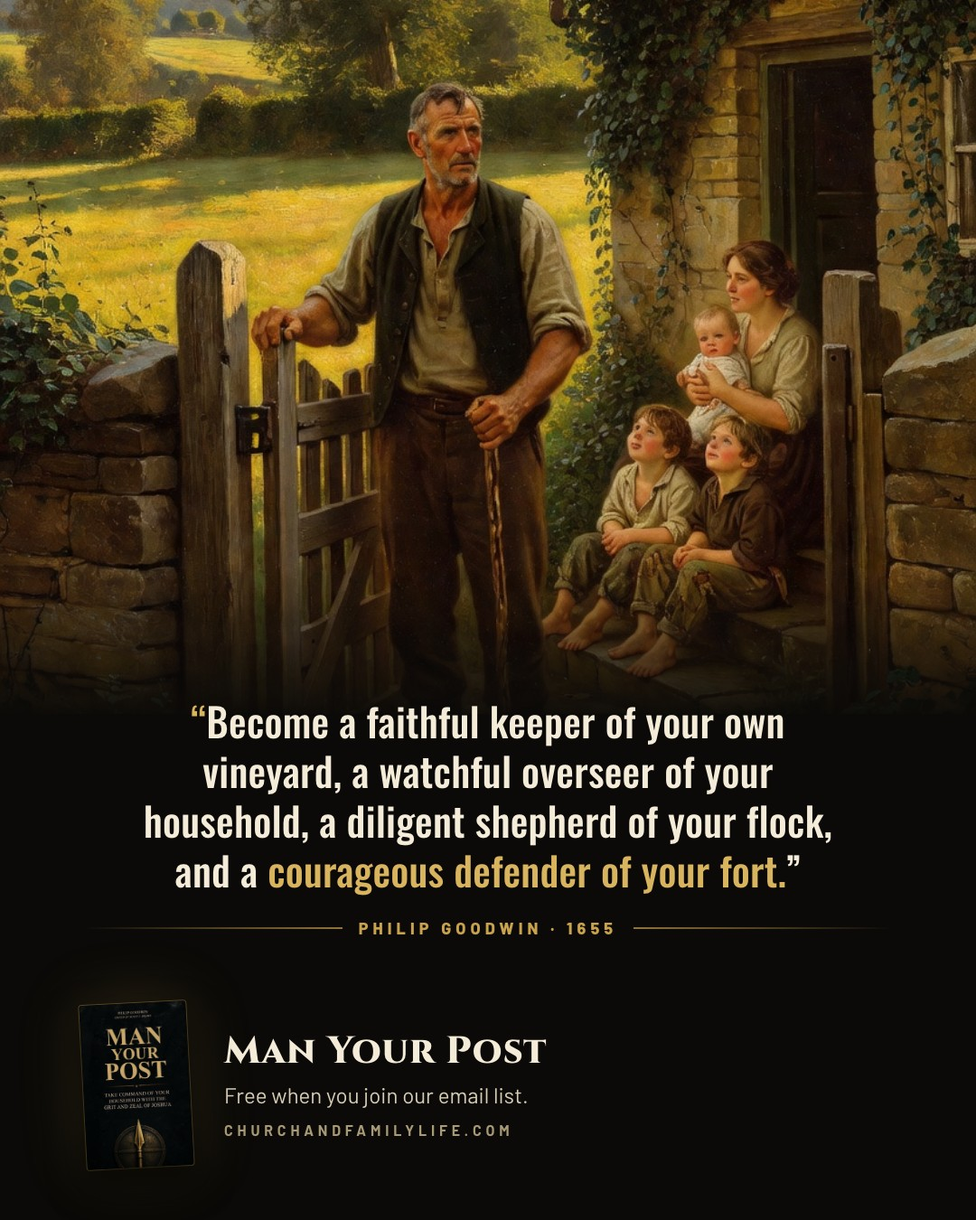
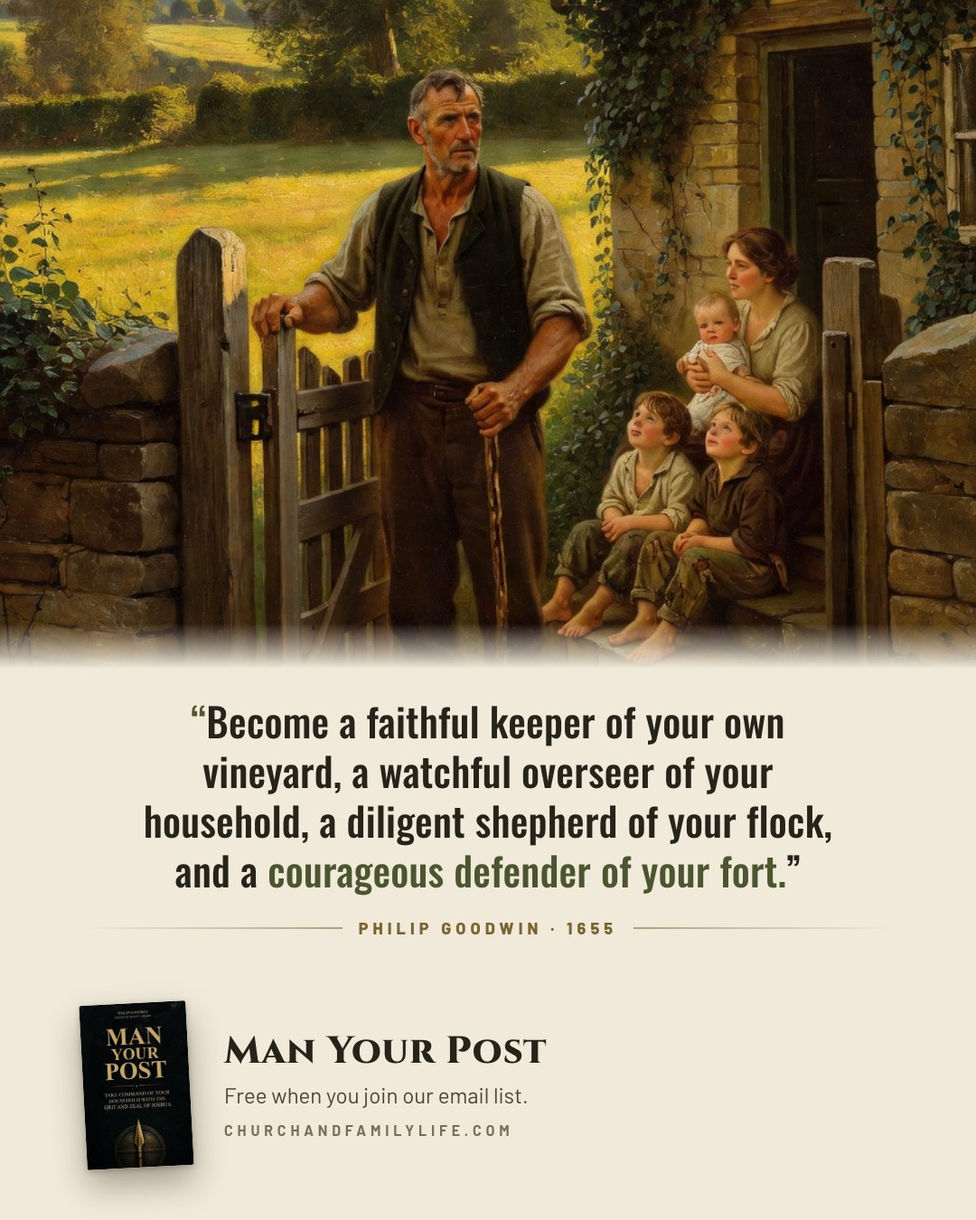
v4: painting palette (parchment/moss/umber), shorter copy, email-only popup

diff --git a/popup/myp-popup.js b/popup/myp-popup.js
@@ -1,5 +1,5 @@
 /*!
- * Church & Family Life — "Man Your Post" free-booklet email popup  (v1, 2026-11-04)
+ * Church & Family Life — "Man Your Post" free-booklet email popup  (v2, 2026-11-04: email only, painting panel, parchment + moss palette)
  * Drop-in, no dependencies. Renders inside a Shadow DOM so site CSS can't bleed in.
  *
  * Install (Exo):
@@ -16,7 +16,7 @@
   var CFG = Object.assign({
     // Where the email goes. Empty string = demo mode (no network call, shows success).
     endpoint: "",
-    // "json"            -> POST {firstName,email,tags[]} as JSON to endpoint (CFL API / ESP webhook)
+    // "json"            -> POST {email,tags[]} as JSON to endpoint (CFL API / ESP webhook)
     // "mailchimp-jsonp" -> endpoint is the Mailchimp embedded-form action URL (…list-manage.com/subscribe/post?u=…&id=…)
     method: "json",
     tag: "giveaway-man-your-post",
@@ -29,7 +29,8 @@
     productUrl: "https://churchandfamilylife.com/products/6ac6570d68c8897ef2d80484",
     coverUrl: "https://cfl-mango.s3.us-east-1.amazonaws.com/assets/products/6ac6570d68c8897ef2d80484/image.jpg",
     privacyUrl: "https://churchandfamilylife.com/privacy",
-    offerLine: "Free digital copy, delivered to your inbox.",
+    artUrl: "https://blueboxdoctor.github.io/cfl-man-your-post-review/art/painting-main.jpg", // Exo: host on CFL S3 before launch
+    offerLine: "Free digital copy by email, plus occasional Church & Family Life updates. Unsubscribe anytime.",
     demo: false
   }, window.MYP_POPUP || {});
 
@@ -58,61 +59,62 @@
   var CSS = "\
 :host{all:initial}\
 *{box-sizing:border-box}\
-.bd{position:fixed;inset:0;z-index:2147483000;background:rgba(8,7,5,.72);backdrop-filter:blur(3px);-webkit-backdrop-filter:blur(3px);display:flex;align-items:center;justify-content:center;padding:24px;opacity:0;transition:opacity .35s ease}\
+.bd{position:fixed;inset:0;z-index:2147483000;background:rgba(24,21,14,.62);backdrop-filter:blur(3px);-webkit-backdrop-filter:blur(3px);display:flex;align-items:center;justify-content:center;padding:24px;opacity:0;transition:opacity .35s ease}\
 .bd.on{opacity:1}\
-.dlg{position:relative;width:100%;max-width:820px;display:grid;grid-template-columns:300px 1fr;background:#0f0e0c;color:#efe6d2;border:1px solid rgba(201,162,78,.45);box-shadow:0 30px 80px rgba(0,0,0,.6),inset 0 0 0 1px rgba(255,255,255,.03);border-radius:6px;overflow:hidden;transform:translateY(14px) scale(.985);transition:transform .45s cubic-bezier(.2,.8,.2,1);font-family:'Barlow','Helvetica Neue',Arial,sans-serif}\
+.dlg{position:relative;width:100%;max-width:780px;display:grid;grid-template-columns:320px 1fr;background:#f1eadb;color:#2a261c;box-shadow:0 30px 80px rgba(20,16,8,.45);border-radius:6px;overflow:hidden;transform:translateY(14px) scale(.985);transition:transform .45s cubic-bezier(.2,.8,.2,1);font-family:'Barlow','Helvetica Neue',Arial,sans-serif}\
 .bd.on .dlg{transform:none}\
-.art{position:relative;background:radial-gradient(120% 80% at 50% 38%,#3a2d14 0%,#16120b 55%,#0a0908 100%);display:flex;align-items:center;justify-content:center;padding:34px 28px;overflow:hidden}\
-.cover{position:relative;z-index:1;width:100%;max-width:210px;aspect-ratio:1080/1669;object-fit:cover;border-radius:2px;box-shadow:0 22px 40px rgba(0,0,0,.7),0 0 0 1px rgba(201,162,78,.35),0 0 60px rgba(201,162,78,.18);transform:rotate(-2.5deg)}\
-.ribbon{position:absolute;z-index:2;top:22px;left:-38px;transform:rotate(-38deg);background:#c9a24e;color:#14110b;font:800 12px/1 'Barlow',Arial,sans-serif;letter-spacing:.22em;padding:7px 48px;box-shadow:0 4px 12px rgba(0,0,0,.4)}\
-.body{padding:40px 42px 30px}\
-.eyebrow{font-size:12px;font-weight:700;letter-spacing:.24em;text-transform:uppercase;color:#c9a24e;margin:0 0 14px;display:flex;align-items:center;gap:10px}\
-.eyebrow:after{content:'';flex:1;height:1px;background:linear-gradient(90deg,rgba(201,162,78,.6),transparent)}\
-h2{text-wrap:balance;font-family:'Oswald',Impact,sans-serif;text-transform:uppercase;font-weight:600;font-size:33px;line-height:1.08;margin:0 0 14px;color:#f4ecd9;letter-spacing:-.005em}\
-h2 em{font-style:normal;color:#d9b45f;display:block;margin-top:4px}\
 .dlg:focus{outline:none}\
-.cta{font-family:'Barlow',Arial,sans-serif;font-weight:600;font-size:19px;line-height:1.35;margin:0 0 14px;color:#efe6d2}\
-.cta b{font-family:'Cinzel',Georgia,serif;color:#d9b45f;font-weight:800;white-space:nowrap;letter-spacing:.02em}\
-.lede{font-size:15.5px;line-height:1.55;color:#c8bea8;margin:0 0 20px}\
-.lede i{color:#e6dcc4}\
-form{display:grid;grid-template-columns:1fr 1.35fr;gap:10px;margin:0}\
-input{width:100%;font:inherit;font-size:16px;color:#f4ecd9;background:#1a1814;border:1px solid #3b3529;border-radius:4px;padding:13px 14px;outline:none;transition:border-color .2s,box-shadow .2s}\
-input::placeholder{color:#7f7663}\
-input:focus{border-color:#c9a24e;box-shadow:0 0 0 3px rgba(201,162,78,.2)}\
-button.go{grid-column:1/-1;font:800 15px/1 'Barlow',Arial,sans-serif;letter-spacing:.14em;text-transform:uppercase;color:#14110b;background:linear-gradient(180deg,#dcb766,#c39a45);border:0;border-radius:4px;padding:16px 18px;cursor:pointer;box-shadow:0 6px 18px rgba(201,162,78,.25);transition:transform .15s,filter .15s}\
-button.go:hover{filter:brightness(1.06);transform:translateY(-1px)}\
+.art{position:relative;min-height:430px;background:#3a3220 center 72%/cover no-repeat;overflow:hidden}\
+.art:after{content:'';position:absolute;inset:auto 0 0 0;height:46%;background:linear-gradient(180deg,rgba(28,26,17,0),rgba(28,26,17,.78))}\
+.cover{position:absolute;z-index:1;left:26px;bottom:24px;width:118px;aspect-ratio:1080/1669;object-fit:cover;border-radius:2px;box-shadow:0 16px 30px rgba(0,0,0,.55),0 0 0 1px rgba(241,234,219,.25);transform:rotate(-3deg)}\
+.tag{position:absolute;z-index:1;left:160px;bottom:30px;font:700 12px/1 'Barlow',Arial,sans-serif;letter-spacing:.22em;text-transform:uppercase;color:#f1eadb;border:1px solid rgba(241,234,219,.6);padding:7px 10px;border-radius:3px}\
+.body{padding:46px 44px 30px;display:flex;flex-direction:column;justify-content:center}\
+.eyebrow{font-size:12px;font-weight:700;letter-spacing:.24em;text-transform:uppercase;color:#7a6431;margin:0 0 16px;display:flex;align-items:center;gap:10px}\
+.eyebrow:after{content:'';flex:1;height:1px;background:linear-gradient(90deg,rgba(122,100,49,.5),transparent)}\
+h2{text-wrap:balance;font-family:'Oswald',Impact,sans-serif;text-transform:uppercase;font-weight:600;font-size:38px;line-height:1.04;margin:0 0 16px;color:#25231a;letter-spacing:-.005em}\
+h2 em{font-style:normal;color:#4b5530;display:block;margin-top:2px}\
+.lede{font-size:16.5px;line-height:1.5;color:#4d4636;margin:0 0 22px}\
+.lede b span{white-space:nowrap}\
+.lede b{display:block;font-family:'Cinzel',Georgia,serif;font-weight:800;color:#2a261c;font-size:17px;letter-spacing:.02em;margin-bottom:4px}\
+.lede i{color:#2a261c}\
+form{display:flex;gap:8px;margin:0;flex-wrap:wrap}\
+input{flex:1 1 200px;min-width:0;font:inherit;font-size:16px;color:#25231a;background:#fbf8f1;border:1px solid #cfc3a6;border-radius:4px;padding:13px 14px;outline:none;transition:border-color .2s,box-shadow .2s}\
+input::placeholder{color:#958a72}\
+input:focus{border-color:#4b5530;box-shadow:0 0 0 3px rgba(75,85,48,.18)}\
+button.go{flex:0 0 auto;font:700 14px/1 'Barlow',Arial,sans-serif;letter-spacing:.14em;text-transform:uppercase;color:#f1eadb;background:#3f4728;border:0;border-radius:4px;padding:15px 20px;cursor:pointer;transition:background .15s,transform .15s}\
+button.go:hover{background:#4b5530;transform:translateY(-1px)}\
 button.go:disabled{opacity:.6;cursor:wait;transform:none}\
-.fine{font-size:12.5px;line-height:1.45;color:#8a816d;margin:12px 0 0}\
-.fine a{color:#b59a5e}\
-.err{grid-column:1/-1;color:#f0a58a;font-size:13.5px;margin:0}\
+.fine{font-size:12.5px;line-height:1.45;color:#857a62;margin:12px 0 0}\
+.fine a{color:#6b5a33}\
+.err{flex-basis:100%;color:#9a3b22;font-size:13.5px;margin:0}\
 .err:empty{display:none}\
-.no{display:block;margin:12px auto 0;background:none;border:0;color:#8a816d;font:inherit;font-size:13px;text-decoration:underline;text-underline-offset:3px;cursor:pointer;padding:6px}\
-.no:hover{color:#c8bea8}\
-.x{position:absolute;top:10px;right:10px;width:40px;height:40px;border-radius:50%;border:0;background:transparent;color:#a99f88;font-size:26px;line-height:40px;cursor:pointer;z-index:3}\
-.x:hover{background:rgba(255,255,255,.06);color:#f4ecd9}\
+.no{align-self:flex-start;margin:10px 0 0 -6px;background:none;border:0;color:#857a62;font:inherit;font-size:13px;text-decoration:underline;text-underline-offset:3px;cursor:pointer;padding:6px}\
+.no:hover{color:#4d4636}\
+.x{position:absolute;top:10px;right:10px;width:40px;height:40px;border-radius:50%;border:0;background:transparent;color:#857a62;font-size:26px;line-height:40px;cursor:pointer;z-index:3}\
+.x:hover{background:rgba(42,38,28,.07);color:#25231a}\
 .ok{display:none}\
-.ok h3{font-family:'Oswald',Impact,sans-serif;text-transform:uppercase;font-weight:600;font-size:32px;margin:0 0 10px;color:#f4ecd9}\
-.ok p{font-size:16px;line-height:1.55;color:#c8bea8;margin:0 0 16px}\
-.ok .vs{font-family:'Barlow',Arial,sans-serif;font-weight:500;font-style:italic;color:#d9b45f;font-size:17px;border-left:2px solid #c9a24e;padding-left:14px;margin:18px 0 22px}\
-.ok a.btn{display:inline-block;color:#14110b;background:#c9a24e;text-decoration:none;font-weight:800;letter-spacing:.1em;text-transform:uppercase;font-size:13px;padding:13px 18px;border-radius:4px}\
+.ok h3{font-family:'Oswald',Impact,sans-serif;text-transform:uppercase;font-weight:600;font-size:34px;margin:0 0 10px;color:#25231a}\
+.ok p{font-size:16px;line-height:1.55;color:#4d4636;margin:0 0 16px}\
+.ok .vs{font-style:italic;color:#4b5530;font-size:17px;border-left:2px solid #8f8a55;padding-left:14px;margin:16px 0 22px}\
+.ok a.btn{display:inline-block;color:#f1eadb;background:#3f4728;text-decoration:none;font-weight:700;letter-spacing:.1em;text-transform:uppercase;font-size:13px;padding:13px 18px;border-radius:4px}\
 .done .form-area{display:none}.done .ok{display:block}\
-:focus-visible{outline:2px solid #e3c47a;outline-offset:2px}\
-.tag{display:none;position:relative;z-index:1;font-size:12px;font-weight:800;letter-spacing:.2em;text-transform:uppercase;color:#14110b;background:#c9a24e;padding:6px 10px;border-radius:3px;align-self:center}\
+:focus-visible{outline:2px solid #4b5530;outline-offset:2px}\
 @media (max-width:720px){\
  .bd{align-items:flex-end;padding:0}\
- .dlg{grid-template-columns:1fr;max-width:none;border-radius:16px 16px 0 0;border-left:0;border-right:0;border-bottom:0;max-height:92vh;overflow:auto;transform:translateY(40px)}\
- .art{padding:18px 20px 0;background:linear-gradient(180deg,#2a2112,#0f0e0c);justify-content:flex-start;gap:16px}\
- .cover{max-width:62px;transform:rotate(-3deg)}\
- .form-area .eyebrow{display:none}\
- input{padding:12px 14px}\
+ .dlg{grid-template-columns:1fr;max-width:none;border-radius:16px 16px 0 0;max-height:92vh;overflow:auto;transform:translateY(40px)}\
+ .art{min-height:0;height:190px;background-position:center 58%}\
+ .art:after{height:60%}\
+ .cover{width:64px;left:20px;bottom:16px}\
+ .tag{left:98px;bottom:20px;font-size:11px}\
+ .x{background:rgba(241,234,219,.85);color:#25231a}\
+ .body{padding:20px 20px 18px}\
+ .eyebrow{display:none}\
+ h2{font-size:30px;margin-bottom:12px}\
+ .lede{font-size:15.5px;margin-bottom:16px}\
+ .lede b{font-size:16px}\
+ input,button.go{flex-basis:100%}\
  .fine{font-size:12px}\
- .ribbon{display:none}\
- .tag{display:block}\
- .body{padding:14px 20px 20px}\
- h2{font-size:27px;margin-bottom:10px}\
- .cta{font-size:17px;margin-bottom:10px}\
- .lede{font-size:14.5px;line-height:1.5;margin-bottom:14px}\
- form{grid-template-columns:1fr}\
+ .no{display:block;margin:8px auto 0}\
 }\
 @media (prefers-reduced-motion:reduce){.bd,.dlg{transition:none}}";
 
@@ -120,27 +122,25 @@ button.go:disabled{opacity:.6;cursor:wait;transform:none}\
 <div class="bd" part="backdrop">\
  <div class="dlg" tabindex="-1" role="dialog" aria-modal="true" aria-labelledby="myp-h" aria-describedby="myp-d">\
   <button class="x" type="button" aria-label="Close">&times;</button>\
-  <div class="art"><span class="ribbon">FREE</span><img class="cover" alt="Man Your Post by Philip Goodwin, edited by Scott T. Brown" src=""><span class="tag">Free booklet</span></div>\
+  <div class="art" role="img" aria-label="A father at his cottage gate, his family in the doorway"><img class="cover" alt="Man Your Post by Philip Goodwin, edited by Scott T. Brown" src=""><span class="tag">Free booklet</span></div>\
   <div class="body">\
    <div class="form-area">\
-    <p class="eyebrow">A free booklet for husbands &amp; fathers</p>\
-    <h2 id="myp-h">Liberalism may be winning in our government. <em>It doesn&rsquo;t have to win in your home.</em></h2>\
-    <p class="cta">Men, fortify your household. <b>Man your post.</b></p>\
-    <p class="lede" id="myp-d">Join the Church &amp; Family Life email list and we&rsquo;ll send you Philip Goodwin&rsquo;s <i>Man Your Post</i>&mdash;a short, bracing call from Joshua 24:15 to lead your family in the worship of God.</p>\
+    <p class="eyebrow">For husbands &amp; fathers</p>\
+    <h2 id="myp-h">Liberalism may be winning. <em>Not under your roof.</em></h2>\
+    <p class="lede" id="myp-d"><b><span>Men, fortify your household.</span> <span>Man your post.</span></b>Get Philip Goodwin&rsquo;s 1655 booklet on Joshua 24:15: lead your family in the worship of God.</p>\
     <form novalidate>\
-     <input name="fname" type="text" autocomplete="given-name" placeholder="First name" aria-label="First name">\
-     <input name="email" type="email" autocomplete="email" placeholder="Email address" aria-label="Email address" required>\
+     <input name="email" type="email" autocomplete="email" placeholder="Your email address" aria-label="Email address" required>\
+     <button class="go" type="submit">Send it free</button>\
      <p class="err" role="alert"></p>\
-     <button class="go" type="submit">Send my free copy</button>\
     </form>\
-    <p class="fine"><span class="offer"></span> You&rsquo;ll also receive occasional emails from Church &amp; Family Life. Unsubscribe anytime. <a class="priv" href="#" target="_blank" rel="noopener">Privacy</a></p>\
+    <p class="fine"><span class="offer"></span> <a class="priv" href="#" target="_blank" rel="noopener">Privacy</a></p>\
     <button class="no" type="button">No thanks</button>\
    </div>\
    <div class="ok" aria-live="polite">\
     <p class="eyebrow">You&rsquo;re in</p>\
     <h3>Check your inbox.</h3>\
-    <p>Your free copy of <i>Man Your Post</i> is on its way. Read it this week&mdash;then read it with your family.</p>\
-    <p class="vs">&ldquo;But as for me and my house, we will serve the Lord.&rdquo; &mdash;Joshua 24:15</p>\
+    <p>Your free copy of <i>Man Your Post</i> is on its way. Read it this week, then read it with your family.</p>\
+    <p class="vs">&ldquo;But as for me and my house, we will serve the Lord.&rdquo; Joshua 24:15</p>\
     <a class="btn shop" href="#">Print copies for your men&rsquo;s group &rarr;</a>\
    </div>\
   </div>\
@@ -166,6 +166,7 @@ button.go:disabled{opacity:.6;cursor:wait;transform:none}\
     root.innerHTML = "<style>" + CSS + "</style>" + HTML;
     bd = root.querySelector(".bd"); dlg = root.querySelector(".dlg");
     root.querySelector(".cover").src = CFG.coverUrl;
+    root.querySelector(".art").style.backgroundImage = "url(\"" + CFG.artUrl + "\")";
     root.querySelector(".offer").textContent = CFG.offerLine;
     root.querySelector(".priv").href = CFG.privacyUrl;
     root.querySelector(".shop").href = CFG.productUrl + (CFG.productUrl.indexOf("?") < 0 ? "?" : "&") + "utm_source=site&utm_medium=popup&utm_campaign=man-your-post";
@@ -204,7 +205,7 @@ button.go:disabled{opacity:.6;cursor:wait;transform:none}\
     requestAnimationFrame(function () { requestAnimationFrame(function () { bd.classList.add("on"); }); });
     setTimeout(function () {
       if (dlg.classList.contains("done")) return;
-      var i = matchMedia("(max-width:720px)").matches ? dlg : root.querySelector('input[name="fname"]');
+      var i = matchMedia("(max-width:720px)").matches ? dlg : root.querySelector('input[name="email"]');
       if (i) i.focus({ preventScroll: true });
     }, 360);
     track("open", source || "manual");
@@ -232,11 +233,11 @@ button.go:disabled{opacity:.6;cursor:wait;transform:none}\
     });
   }
 
-  function send(fname, email) {
+  function send(email) {
     if (CFG.demo || !CFG.endpoint) return new Promise(function (r) { setTimeout(function () { r({ ok: true, demo: true }); }, 700); });
     if (CFG.method === "mailchimp-jsonp") {
       var u = CFG.endpoint.replace("/post?", "/post-json?") +
-        "&EMAIL=" + encodeURIComponent(email) + "&FNAME=" + encodeURIComponent(fname) +
+        "&EMAIL=" + encodeURIComponent(email) +
         (CFG.tag ? "&tags=" + encodeURIComponent(CFG.tag) : "");
       return jsonp(u).then(function (d) {
         if (d.result === "success" || /already subscribed/i.test(d.msg || "")) return { ok: true };
@@ -245,25 +246,25 @@ button.go:disabled{opacity:.6;cursor:wait;transform:none}\
     }
     return fetch(CFG.endpoint, {
       method: "POST", headers: { "Content-Type": "application/json" },
-      body: JSON.stringify({ firstName: fname, email: email, tags: [CFG.tag], source: "popup:man-your-post", page: location.href })
+      body: JSON.stringify({ email: email, tags: [CFG.tag], source: "popup:man-your-post", page: location.href })
     }).then(function (r) { if (!r.ok) throw new Error("We couldn't sign you up just now. Please try again."); return { ok: true }; });
   }
 
   function submit(e) {
     e.preventDefault();
     var f = e.target, err = root.querySelector(".err"), btn = f.querySelector(".go");
-    var fname = f.fname.value.trim(), email = f.email.value.trim();
+    var email = f.email.value.trim();
     err.textContent = "";
     if (!/^[^\s@]+@[^\s@]+\.[^\s@]{2,}$/.test(email)) { err.textContent = "Please enter a valid email address."; f.email.focus(); return; }
     btn.disabled = true; btn.textContent = "Sending…";
-    send(fname, email).then(function () {
+    send(email).then(function () {
       store.set({ subscribed: Date.now() });
       dlg.classList.add("done");
       track("subscribe", CFG.tag);
       setTimeout(function () { dlg.focus({ preventScroll: true }); }, 50);
     }).catch(function (x) {
       err.textContent = x && x.message && x.message !== "network" ? x.message : "We couldn't sign you up just now. Please try again.";
-      btn.disabled = false; btn.textContent = "Send my free copy";
+      btn.disabled = false; btn.textContent = "Send it free";
     });
   }
 
@@ -285,7 +286,7 @@ button.go:disabled{opacity:.6;cursor:wait;transform:none}\
   function boot() {
     var s = store.get(); store.set({ views: (s.views || 0) + 1 });
     if (forced() && !excluded()) { open("link"); return; }
-    if (eligible()) { (new Image()).src = CFG.coverUrl; arm(); } // warm the cover so it's there when the popup opens
+    if (eligible()) { (new Image()).src = CFG.coverUrl; (new Image()).src = CFG.artUrl; arm(); } // warm the cover so it's there when the popup opens
   }
 
   // Links anywhere on the site: <a href="#man-your-post"> or [data-myp-open] opens it without a reload.

diff --git a/index.html b/index.html
@@ -29,11 +29,12 @@ ul.n li{margin:6px 0;color:#cfc5ad}code{background:#1d1a14;padding:1px 6px;borde
 
 <section><div class="w"><h2>1 · Website popup</h2>
 <p class="sub">Opens after 9 seconds or 45% scroll (or exit intent on desktop). It stays quiet for 7 days after a close, never shows again after sign-up, and skips checkout/cart/donate pages. Any link with <code>?free=man-your-post</code> or <code>#man-your-post</code> opens it right away, and that's where the social posts point. On phones it's a bottom sheet.</p>
+<p class="sub"><b>v4 (12:45pm):</b> new palette pulled from the painting (parchment, moss green, umber) instead of black and gold. The painting now fills the left panel with the booklet over it. About half the words are gone: shorter headline, one line from Goodwin, and email only (no first-name field). The v3 black-and-gold popup is saved in <a href="assets/v3-popup/popup-desktop.png">assets/v3-popup/</a>.</p>
 <div class="shots"><div><img src="assets/popup-desktop.png" alt="Popup on desktop"><div class="cap">Desktop, over the live homepage</div><img style="margin-top:18px" src="assets/popup-desktop-success.png" alt="Popup success state"><div class="cap">After sign-up</div></div>
 <div><img src="assets/popup-mobile.png" alt="Popup on mobile"><div class="cap">iPhone (390px)</div><img style="margin-top:18px" src="assets/popup-mobile-success.png" alt="Mobile success"><div class="cap">After sign-up</div></div></div>
 </div></section>
 
-<section><div class="w"><h2>2 · Social artwork</h2><p class="sub">v3 (9:35am): headlines are now set in Oswald, a bold condensed modern face. The sign-off line "Men, man your post." uses Cinzel, which matches the cover's carved serif title, and the body text is Barlow. The popup uses the same type. The v2 versions in Libre Caslon are saved in <a href="social/v2-caslon/feed-1080x1350.jpg">social/v2-caslon/</a>.</p><p class="sub">v2 (9:20am): background changed to a 19th-century realist oil painting, the kind Michael Foster uses on his X articles. The painting runs unshaded at the top, and the black-and-gold panel with the booklet sits below it. Click any image for the full-size file. The first dark versions are still in <a href="social/v1-dark/feed-1080x1350.jpg">social/v1-dark/</a>.</p>
+<section><div class="w"><h2>2 · Social artwork</h2><p class="sub"><b>v4 (12:45pm):</b> the black-and-gold panel is now parchment with moss-green and umber taken from the painting. The headline is cut to "Liberalism may be winning. Not under your roof." The v3 versions are saved in <a href="social/v3-oswald-black/feed-1080x1350.jpg">social/v3-oswald-black/</a>.</p><p class="sub">v3 (9:35am): headlines are now set in Oswald, a bold condensed modern face. The sign-off line "Men, man your post." uses Cinzel, which matches the cover's carved serif title, and the body text is Barlow. The popup uses the same type. The v2 versions in Libre Caslon are saved in <a href="social/v2-caslon/feed-1080x1350.jpg">social/v2-caslon/</a>.</p><p class="sub">v2 (9:20am): background changed to a 19th-century realist oil painting, the kind Michael Foster uses on his X articles. The painting runs unshaded at the top, and the black-and-gold panel with the booklet sits below it. Click any image for the full-size file. The first dark versions are still in <a href="social/v1-dark/feed-1080x1350.jpg">social/v1-dark/</a>.</p>
 <div class="grid"><div><a href="social/feed-1080x1350.jpg" target="_blank"><img src="social/feed-1080x1350.jpg" alt="Feed · 1080×1350" loading="lazy"></a><div class="tag" style="margin-top:8px">Feed · 1080×1350</div><div class="cap">Instagram / Facebook portrait</div></div><div><a href="social/square-1080.jpg" target="_blank"><img src="social/square-1080.jpg" alt="Square · 1080×1080" loading="lazy"></a><div class="tag" style="margin-top:8px">Square · 1080×1080</div><div class="cap">Facebook, IG grid, LinkedIn</div></div><div><a href="social/story-1080x1920.jpg" target="_blank"><img src="social/story-1080x1920.jpg" alt="Story · 1080×1920" loading="lazy"></a><div class="tag" style="margin-top:8px">Story · 1080×1920</div><div class="cap">IG / FB Story</div></div><div><a href="social/wide-1600x900.jpg" target="_blank"><img src="social/wide-1600x900.jpg" alt="Wide · 1600×900" loading="lazy"></a><div class="tag" style="margin-top:8px">Wide · 1600×900</div><div class="cap">X, Facebook link post, email header</div></div><div><a href="social/quote-1080x1350.jpg" target="_blank"><img src="social/quote-1080x1350.jpg" alt="Quote card · 1080×1350" loading="lazy"></a><div class="tag" style="margin-top:8px">Quote card · 1080×1350</div><div class="cap">Post 2 / carousel slide 2</div></div></div>
 </div></section>
 
@@ -42,7 +43,7 @@ ul.n li{margin:6px 0;color:#cfc5ad}code{background:#1d1a14;padding:1px 6px;borde
 
 Here is what no election can change: God has not handed your household to Washington. He has handed it to you.
 
-Liberalism may be winning in our government. It doesn't have to win in your home.
+Liberalism may be winning. Not under your roof.
 
 More than 350 years ago, Puritan pastor Philip Goodwin warned that the enemies of church and nation "attack the home first." His answer wasn't panic. It was a man at his post: praying with his wife and children, opening the Scriptures at his own table, leading his household in the worship of God, and guarding the door.
 
@@ -53,7 +54,7 @@ Men, fortify your home. Man your post.
 For a limited time, we're giving away Goodwin's booklet Man Your Post free to everyone who joins the Church &amp; Family Life email list:
 https://churchandfamilylife.com/?free=man-your-post&amp;utm_source=facebook&amp;utm_medium=social&amp;utm_campaign=man-your-post</pre></div></div><div class="post"><a href="social/feed-1080x1350.jpg" target="_blank"><img src="social/feed-1080x1350.jpg" alt="" loading="lazy"></a><div><div class="tag">Post 1 · today · Instagram (feed + Story)</div><button class="copy" data-t="p2">Copy</button><pre id="p2">No election decides who leads your home.
 
-Liberalism may be winning in our government. It doesn't have to win in your household.
+Liberalism may be winning. Not under your roof.
 
 In 1655, Philip Goodwin warned that the enemies of church and nation "attack the home first." The answer is not panic. It is a father at his post: the Word open at his table, his family on their knees, the door guarded.
 
@@ -63,7 +64,7 @@ Men, man your post. 📖 Get Man Your Post FREE when you join our email list. Li
 
 #ManYourPost #FamilyWorship #ChristianFatherhood #BiblicalManhood #Joshua2415 #ChurchAndFamilyLife</pre></div></div><div class="post"><a href="social/wide-1600x900.jpg" target="_blank"><img src="social/wide-1600x900.jpg" alt="" loading="lazy"></a><div><div class="tag">Post 1 · today · X</div><button class="copy" data-t="p3">Copy</button><pre id="p3">No election decides who leads your home.
 
-Liberalism may be winning in our government. It doesn't have to win in your household.
+Liberalism may be winning. Not under your roof.
 
 Men, man your post.
 
@@ -87,8 +88,7 @@ https://churchandfamilylife.com/?free=man-your-post&amp;utm_source=social&amp;ut
 <section><div class="w"><h2>4 · Decisions &amp; notes</h2><ul class="n">
 <li><b>Free digital copy</b> (PDF by email) is what the popup promises. Print stock is 50, so free print copies need a shipping/quantity call first.</li>
 <li><b>Email list wiring:</b> the widget supports a Mailchimp embedded-form URL or a JSON endpoint. It tags sign-ups <code>giveaway-man-your-post</code> so an automation can send the PDF. The demo submits nowhere.</li>
-<li><b>Copy edits from the original line:</b> "but not in your home" → "It doesn't have to win in your home". "maning" → "Man your post." (the book's title as the last word).</li>
-<li>Other headline options: "Washington may belong to liberalism. Your home doesn't have to." · "No election decides who leads your home."</li>
+<li><b>Headline (v4):</b> "Liberalism may be winning in our government. It doesn't have to win in your home." became "Liberalism may be winning. Not under your roof." Alternates: "Liberalism may be winning. Not in your home." · "Liberalism may be winning. Your home holds."</li>
 <li>The background painting was AI-generated in the style of 19th-century English genre painters (Smythe, Mulready). It's not a real artwork, so there's no artist to credit. All lettering and the real book cover are layered on top, so they're crisp and easy to edit. Other paintings from the same set: <a href="art/painting-alt-3.jpg">alt 3</a>, <a href="art/painting-alt-4.jpg">alt 4</a>.</li>
 </ul></div></section>
 <footer class="w" style="padding:30px 24px 60px;color:#6f6754;font-size:13px">Temporary review draft. Nothing here is live on churchandfamilylife.com.</footer>

diff --git a/demo.html b/demo.html
@@ -6,12 +6,12 @@ html,body{margin:0;background:#f4f1ea}
 .site{min-height:200vh;background:url(assets/site-desktop.jpg) top center/1366px auto no-repeat #fff}
 @media (max-width:720px){.site{background:url(assets/site-mobile.jpg) top center/390px auto no-repeat #fff}}
 .rv{position:fixed;left:12px;top:12px;z-index:10;font:600 13px/1.2 -apple-system,Segoe UI,Arial,sans-serif;background:#111;color:#fff;border-radius:6px;padding:8px 10px;display:flex;gap:8px;align-items:center;box-shadow:0 4px 14px rgba(0,0,0,.3)}
-.rv button,.rv a{font:inherit;background:#c9a24e;color:#111;border:0;border-radius:4px;padding:6px 9px;cursor:pointer;text-decoration:none}
+.rv button,.rv a{font:inherit;background:#e4dac3;color:#111;border:0;border-radius:4px;padding:6px 9px;cursor:pointer;text-decoration:none}
 </style></head>
 <body>
 <div class="rv">Review demo <button onclick="CFLManYourPost.reset();CFLManYourPost.close();setTimeout(()=>location.reload(),50)">Replay</button><a href="./">Back</a></div>
 <div class="site" aria-hidden="true"></div>
 <script>try{localStorage.removeItem("cfl_myp_popup_v1")}catch(e){}
-window.MYP_POPUP={demo:true,delayMs:1500,minPagesBeforeAuto:0,snoozeDays:0,coverUrl:"assets/cover.jpg"};</script>
+window.MYP_POPUP={demo:true,delayMs:1500,minPagesBeforeAuto:0,snoozeDays:0,coverUrl:"assets/cover.jpg",artUrl:"art/painting-main.jpg"};</script>
 <script src="popup/myp-popup.js"></script>
 </body></html>

diff --git a/COPY.md b/COPY.md
@@ -2,20 +2,19 @@
 
 Review site: https://blueboxdoctor.github.io/cfl-man-your-post-review/
 
-## Popup copy (website)
-- Eyebrow: A FREE BOOKLET FOR HUSBANDS & FATHERS
-- Headline: **Liberalism may be winning in our government. It doesn't have to win in your home.**
-- Line 2: Men, fortify your household. **Man your post.**
-- Body: Join the Church & Family Life email list and we'll send you Philip Goodwin's *Man Your Post*, a short, bracing call from Joshua 24:15 to lead your family in the worship of God.
-- Button: SEND MY FREE COPY
-- Fine print: Free digital copy, delivered to your inbox. You'll also receive occasional emails from Church & Family Life. Unsubscribe anytime.
+## Popup copy (website), v4
+- Eyebrow (desktop only): FOR HUSBANDS & FATHERS
+- Headline: **Liberalism may be winning. Not under your roof.**
+- Line 2: **Men, fortify your household. Man your post.**
+- Body: Get Philip Goodwin's 1655 booklet on Joshua 24:15: lead your family in the worship of God.
+- Field: email only (first name removed)
+- Button: SEND IT FREE
+- Fine print: Free digital copy by email, plus occasional Church & Family Life updates. Unsubscribe anytime. Privacy
 - Success: "Check your inbox." + Joshua 24:15 + "Print copies for your men's group" (product link)
 
-What changed from the original line: "but not in your home" became "It doesn't have to win in your home". It's a call to action, not a claim, and it reads stronger split into two sentences. "Men fortify your home by maning your post" became "Men, fortify your household. Man your post." That adds the comma, fixes "maning", and makes the book's title the last words.
+v4 changes (David, 12:33pm): cut "in our government"; "It doesn't have to win in your home" became "Not under your roof."; the sign-up pitch folded into one Goodwin line; first-name field dropped. Colors moved off black/gold to the painting's parchment, moss and umber.
 
-Other headline options:
-- B: Washington may belong to liberalism. Your home doesn't have to.
-- C: No election decides who leads your home.
+Alternate second lines: "Not in your home." · "Your home holds."
 
 ## Social posts
 
@@ -27,7 +26,7 @@ A lot of Christian families woke up this morning discouraged by last night's res
 
 Here is what no election can change: God has not handed your household to Washington. He has handed it to you.
 
-Liberalism may be winning in our government. It doesn't have to win in your home.
+Liberalism may be winning. Not under your roof.
 
 More than 350 years ago, Puritan pastor Philip Goodwin warned that the enemies of church and nation "attack the home first." His answer wasn't panic. It was a man at his post: praying with his wife and children, opening the Scriptures at his own table, leading his household in the worship of God, and guarding the door.
 
@@ -45,7 +44,7 @@ Image: social/feed-1080x1350.jpg (alt: social/story-1080x1920.jpg)
 ```
 No election decides who leads your home.
 
-Liberalism may be winning in our government. It doesn't have to win in your household.
+Liberalism may be winning. Not under your roof.
 
 In 1655, Philip Goodwin warned that the enemies of church and nation "attack the home first." The answer is not panic. It is a father at his post: the Word open at his table, his family on their knees, the door guarded.
 
@@ -62,7 +61,7 @@ Image: social/wide-1600x900.jpg
 ```
 No election decides who leads your home.
 
-Liberalism may be winning in our government. It doesn't have to win in your household.
+Liberalism may be winning. Not under your roof.
 
 Men, man your post.
 
